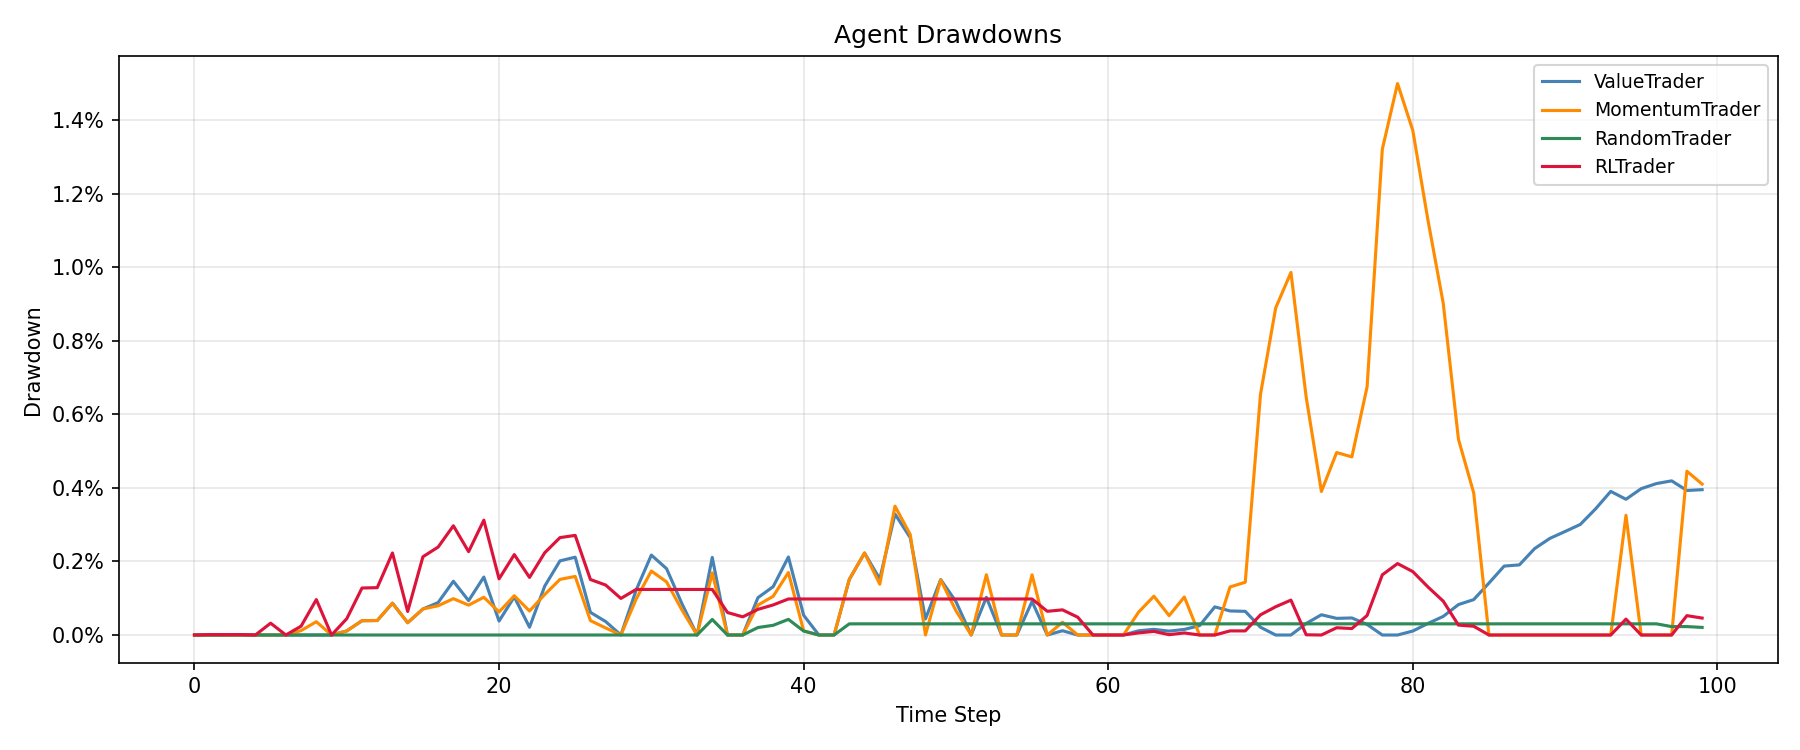
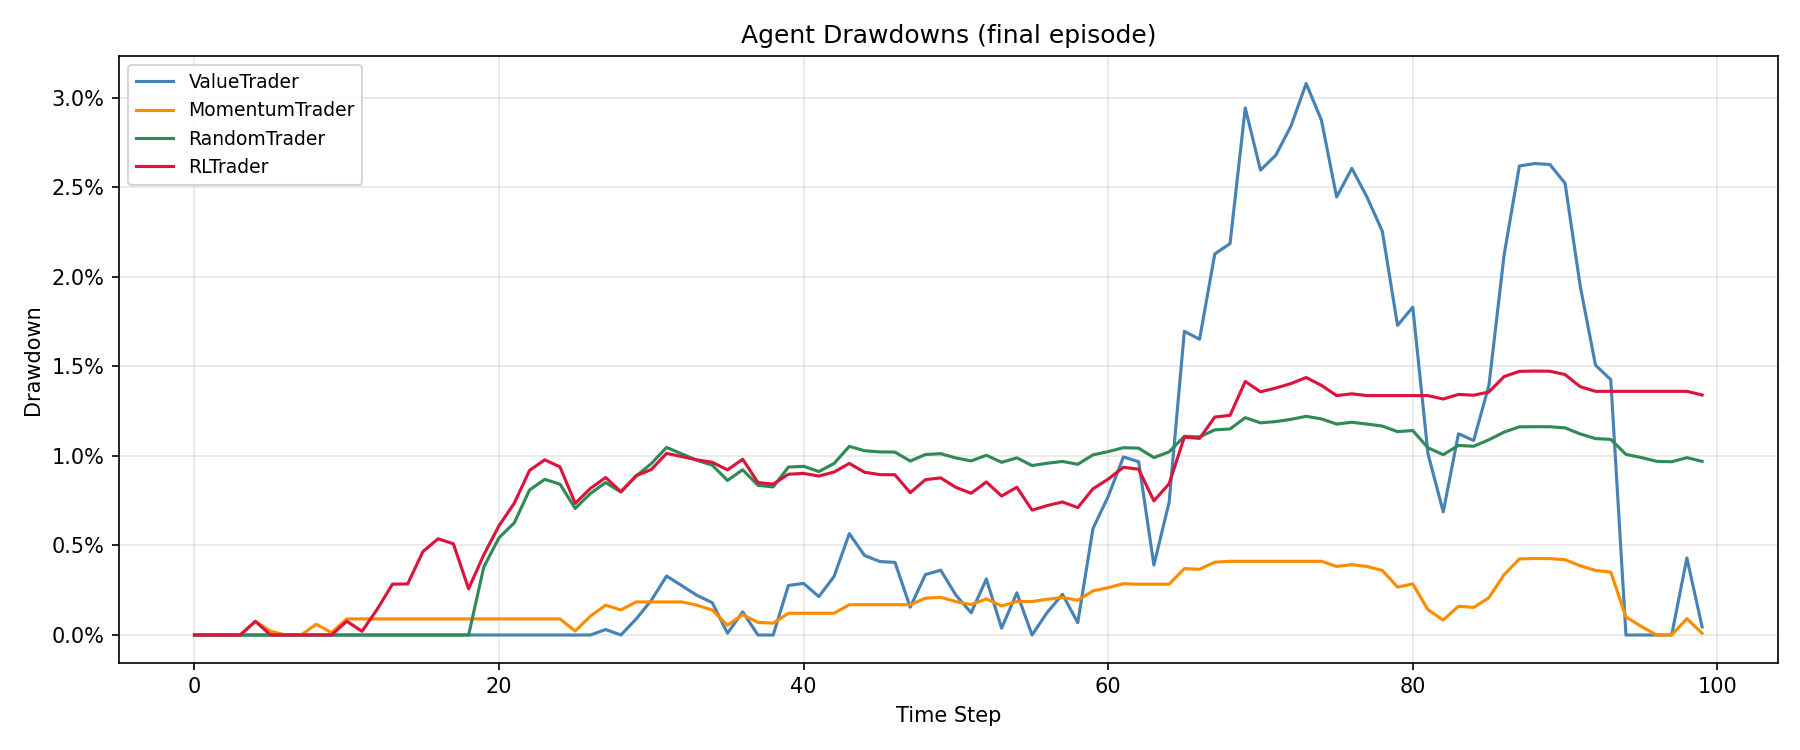
Add advanced reinforcement learning trading agent with multi-episode training
Enhance RL agent with richer state representation, implement multi-episode training, and reset agent states for new episodes.

Replit-Commit-Author: Agent
Replit-Commit-Session-Id: 3826bf3c-e3fd-4317-b321-61e418fea702
Replit-Commit-Checkpoint-Type: full_checkpoint
Replit-Commit-Event-Id: 63e60bcb-77c8-48ec-9cd1-1f03bdb2e245
Replit-Helium-Checkpoint-Created: true

diff --git a/project/main.py b/project/main.py
@@ -4,8 +4,11 @@ import matplotlib.pyplot as plt
 import matplotlib.patches as mpatches
 
 from simulation.simulation import Simulation
+from agents.trader_agent import ValueTrader, MomentumTrader, RandomTrader
 from agents.rl_agent import ReinforcementLearningTrader
+from config.config import INITIAL_BALANCE
 
+NUM_EPISODES = 10
 
 REGIME_COLORS = {
     "bull":     "green",
@@ -15,6 +18,10 @@ REGIME_COLORS = {
     "crash":    "purple",
 }
 
+
+# ---------------------------------------------------------------------------
+# Chart helpers
+# ---------------------------------------------------------------------------
 
 def shade_regimes(ax, regime_history):
     """Shade chart background by market regime."""
@@ -43,7 +50,7 @@ def plot_price_chart(price_history, regime_history):
     ]
     ax.legend(handles=patches + [plt.Line2D([0], [0], color="black", label="Price")],
               loc="upper left", fontsize=8)
-    ax.set_title("Price History with Regime Shading")
+    ax.set_title("Price History with Regime Shading (final episode)")
     ax.set_xlabel("Time Step")
     ax.set_ylabel("Price")
     ax.grid(True, alpha=0.3)
@@ -61,7 +68,7 @@ def plot_equity_curves(agents):
     if agents:
         ax.axhline(y=agents[0].equity_history[0], color="gray", linestyle="--",
                    linewidth=0.8, label="Starting equity")
-    ax.set_title("Agent Equity Curves")
+    ax.set_title("Agent Equity Curves (final episode)")
     ax.set_xlabel("Time Step")
     ax.set_ylabel("Equity")
     ax.legend(fontsize=9)
@@ -83,7 +90,7 @@ def plot_drawdowns(agents):
             peak = max(peak, v)
             dd_series.append((peak - v) / peak if peak > 0 else 0)
         ax.plot(dd_series, label=agent.name, color=color, linewidth=1.5)
-    ax.set_title("Agent Drawdowns")
+    ax.set_title("Agent Drawdowns (final episode)")
     ax.set_xlabel("Time Step")
     ax.set_ylabel("Drawdown")
     ax.yaxis.set_major_formatter(plt.FuncFormatter(lambda y, _: f"{y:.1%}"))
@@ -95,36 +102,97 @@ def plot_drawdowns(agents):
     print("Saved: drawdowns.png")
 
 
+def plot_rl_qtable_growth(qtable_sizes):
+    fig, ax = plt.subplots(figsize=(10, 4))
+    ax.plot(range(1, len(qtable_sizes) + 1), qtable_sizes,
+            marker="o", color="crimson", linewidth=1.5)
+    ax.set_title("RLTrader Q-table Growth Across Episodes")
+    ax.set_xlabel("Episode")
+    ax.set_ylabel("Unique States in Q-table")
+    ax.grid(True, alpha=0.3)
+    plt.tight_layout()
+    plt.savefig("rl_qtable_growth.png", dpi=150)
+    plt.close()
+    print("Saved: rl_qtable_growth.png")
+
+
+# ---------------------------------------------------------------------------
+# Main
+# ---------------------------------------------------------------------------
+
 def main():
-    sim = Simulation()
-    trades, agents, price_history, regime_history = sim.run()
+    # Create agents once — RLTrader's Q-table will accumulate across episodes
+    agents = [
+        ValueTrader("ValueTrader", INITIAL_BALANCE),
+        MomentumTrader("MomentumTrader", INITIAL_BALANCE),
+        RandomTrader("RandomTrader", INITIAL_BALANCE),
+        ReinforcementLearningTrader("RLTrader", INITIAL_BALANCE),
+    ]
+    rl_trader = agents[-1]
 
-    print(f"Market Regime: {sim.initial_regime.upper()}")
-    if sim.market.regime != sim.initial_regime:
-        print(f"  (Regime shifted to: {sim.market.regime.upper()} during simulation)")
+    episode_summaries = []  # list of {name: final_equity} per episode
+    qtable_sizes = []       # Q-table size after each episode
 
-    print("\nSimulation complete.")
-    print("Trades:")
-    for trade in trades:
-        name, side, price = trade
-        print(f"{name} {side} at {price}")
+    price_history = []
+    regime_history = []
 
-    print("\nPerformance Summary:")
-    for agent in agents:
-        total_equity = agent.balance + agent.unrealized_pnl
-        print(f"{agent.name}:")
-        print(f"  Realized PnL:   {agent.realized_pnl:.2f}")
-        print(f"  Unrealized PnL: {agent.unrealized_pnl:.2f}")
-        print(f"  Final Balance:  {agent.balance:.2f}")
-        print(f"  Total Equity:   {total_equity:.2f}")
-        if isinstance(agent, ReinforcementLearningTrader):
-            print(f"  Q-table states: {len(agent.q_table)}")
+    for episode in range(1, NUM_EPISODES + 1):
+        # Reset per-episode state; Q-table is preserved on RLTrader
+        for agent in agents:
+            agent.reset_for_new_episode()
+
+        # Fresh market + exchange, same agents
+        sim = Simulation(agents=agents)
+        trades, agents, price_history, regime_history = sim.run()
+
+        # Per-episode stats
+        qtable_sizes.append(len(rl_trader.q_table))
+        episode_equity = {a.name: round(a.balance + a.unrealized_pnl, 2) for a in agents}
+        episode_summaries.append(episode_equity)
+
+        regime_label = sim.initial_regime.upper()
+        if sim.market.regime != sim.initial_regime:
+            regime_label += f" → {sim.market.regime.upper()}"
+
+        print(f"=== Episode {episode}/{NUM_EPISODES}  [Regime: {regime_label}] ===")
+        for a in agents:
+            eq = a.balance + a.unrealized_pnl
+            tag = f"  (Q-table: {len(rl_trader.q_table)} states)" if isinstance(a, ReinforcementLearningTrader) else ""
+            print(f"  {a.name:<18} equity: {eq:>10.2f}{tag}")
         print()
 
-    print("Generating charts...")
+    # ---------------------------------------------------------------------------
+    # Final summary across all episodes
+    # ---------------------------------------------------------------------------
+    print("=" * 60)
+    print(f"MULTI-EPISODE SUMMARY  ({NUM_EPISODES} episodes)")
+    print("=" * 60)
+    for name in [a.name for a in agents]:
+        equities = [ep[name] for ep in episode_summaries]
+        avg = sum(equities) / len(equities)
+        best = max(equities)
+        worst = min(equities)
+        print(f"{name:<18}  avg: {avg:>9.2f}  best: {best:>9.2f}  worst: {worst:>9.2f}")
+
+    print(f"\nRLTrader final Q-table: {len(rl_trader.q_table)} unique states")
+
+    # Final episode performance detail
+    print("\nFinal Episode — Performance Detail:")
+    for agent in agents:
+        total_equity = agent.balance + agent.unrealized_pnl
+        print(f"  {agent.name}:")
+        print(f"    Realized PnL:   {agent.realized_pnl:.2f}")
+        print(f"    Unrealized PnL: {agent.unrealized_pnl:.2f}")
+        print(f"    Total Equity:   {total_equity:.2f}")
+
+    # ---------------------------------------------------------------------------
+    # Charts (final episode data + RL Q-table growth)
+    # ---------------------------------------------------------------------------
+    print("\nGenerating charts...")
     plot_price_chart(price_history, regime_history)
     plot_equity_curves(agents)
     plot_drawdowns(agents)
+    plot_rl_qtable_growth(qtable_sizes)
 
 
 if __name__ == "__main__":

diff --git a/project/agents/rl_agent.py b/project/agents/rl_agent.py
@@ -7,26 +7,82 @@ class ReinforcementLearningTrader(TraderAgent):
 
     def __init__(self, name, balance):
         super().__init__(name, balance)
-        self.q_table = {}   # (price_bucket, spread_bucket, regime) → {action: Q-value}
+        self.q_table = {}   # rich state tuple → {action: Q-value}
         self.alpha = 0.1    # learning rate
         self.gamma = 0.95   # discount factor
         self.epsilon = 0.1  # exploration rate
+
+        self.last_mid_price = None  # for momentum feature
 
         # Set by the simulation loop each step
         self.prev_state = None
         self.prev_action = None
         self.prev_equity = None
 
+    def reset_for_new_episode(self):
+        """Reset per-episode fields; Q-table persists across episodes."""
+        super().reset_for_new_episode()
+        self.last_mid_price = None
+        self.prev_state = None
+        self.prev_action = None
+        self.prev_equity = None
+
     def encode_state(self, market_state):
-        """Discretize continuous market features into a hashable state tuple."""
+        """
+        Discretize seven market features into a hashable state tuple.
+
+        Features:
+          price_bucket    – mid-price in bands of 5
+          spread_bucket   – spread rounded down to nearest integer
+          regime          – string from MarketAgent
+          imbalance_bucket – sign of (bid_size - ask_size): -1 / 0 / +1
+          vol_bucket      – volatility scaled by 10 and truncated
+          momentum_bucket – sign of price change since last step: -1 / 0 / +1
+          inventory_bucket – clamped integer position in [-2, 2]
+        """
         price_bucket = int(market_state.mid_price // 5)
         spread_bucket = int((market_state.spread or 0) // 1)
         regime = market_state.regime
-        return (price_bucket, spread_bucket, regime)
+
+        imbalance = market_state.bid_size - market_state.ask_size
+        if imbalance < 0:
+            imbalance_bucket = -1
+        elif imbalance > 0:
+            imbalance_bucket = 1
+        else:
+            imbalance_bucket = 0
+
+        vol_bucket = int(market_state.volatility * 10)
+
+        if self.last_mid_price is not None:
+            delta = market_state.mid_price - self.last_mid_price
+            if delta < 0:
+                momentum_bucket = -1
+            elif delta > 0:
+                momentum_bucket = 1
+            else:
+                momentum_bucket = 0
+        else:
+            momentum_bucket = 0
+
+        inventory_bucket = max(-2, min(2, self.position))
+
+        return (
+            price_bucket,
+            spread_bucket,
+            regime,
+            imbalance_bucket,
+            vol_bucket,
+            momentum_bucket,
+            inventory_bucket,
+        )
 
     def decide(self, market_state):
         """Epsilon-greedy action selection over the current encoded state."""
         state = self.encode_state(market_state)
+
+        # Update momentum reference for next step's encode_state call
+        self.last_mid_price = market_state.mid_price
 
         if random.random() < self.epsilon:
             return random.choice(self.actions)

diff --git a/project/simulation/simulation.py b/project/simulation/simulation.py
@@ -10,18 +10,25 @@ from config.config import (
 
 
 class Simulation:
-    def __init__(self):
+    def __init__(self, agents=None):
+        # Fresh market and exchange each episode
         self.market = MarketAgent(MARKET_START_PRICE)
         self.exchange = Exchange(self.market)
         self.initial_regime = self.market.regime
         self.price_history = []
         self.regime_history = []
-        self.agents = [
-            ValueTrader("ValueTrader", INITIAL_BALANCE),
-            MomentumTrader("MomentumTrader", INITIAL_BALANCE),
-            RandomTrader("RandomTrader", INITIAL_BALANCE),
-            ReinforcementLearningTrader("RLTrader", INITIAL_BALANCE),
-        ]
+
+        # Accept externally-managed agents (e.g. for multi-episode training)
+        # or create a default set if none provided.
+        if agents is not None:
+            self.agents = agents
+        else:
+            self.agents = [
+                ValueTrader("ValueTrader", INITIAL_BALANCE),
+                MomentumTrader("MomentumTrader", INITIAL_BALANCE),
+                RandomTrader("RandomTrader", INITIAL_BALANCE),
+                ReinforcementLearningTrader("RLTrader", INITIAL_BALANCE),
+            ]
 
     def run(self):
         for step in range(SIMULATION_STEPS):
@@ -37,7 +44,7 @@ class Simulation:
             )
 
             # All agents decide and submit orders.
-            # We capture each agent's action so RL can use it in the Q-update below.
+            # Capture each agent's action so RL can use it in the Q-update below.
             step_actions = {}
             for agent in self.agents:
                 action = agent.decide(state)

diff --git a/project/agents/trader_agent.py b/project/agents/trader_agent.py
@@ -4,6 +4,7 @@ import random
 class TraderAgent:
     def __init__(self, name, balance):
         self.name = name
+        self.initial_balance = balance  # preserved for episode resets
         self.balance = balance
         self.position = 0
         self.last_price = None  # tracks last mid_price for momentum comparison
@@ -22,6 +23,15 @@ class TraderAgent:
 
     def record_equity(self):
         self.equity_history.append(self.balance + self.unrealized_pnl)
+
+    def reset_for_new_episode(self):
+        """Reset per-episode state while keeping anything that persists (e.g. a Q-table)."""
+        self.balance = self.initial_balance
+        self.position = 0
+        self.realized_pnl = 0.0
+        self.unrealized_pnl = 0.0
+        self.equity_history = []
+        self.last_price = None
 
 
 class ValueTrader(TraderAgent):
